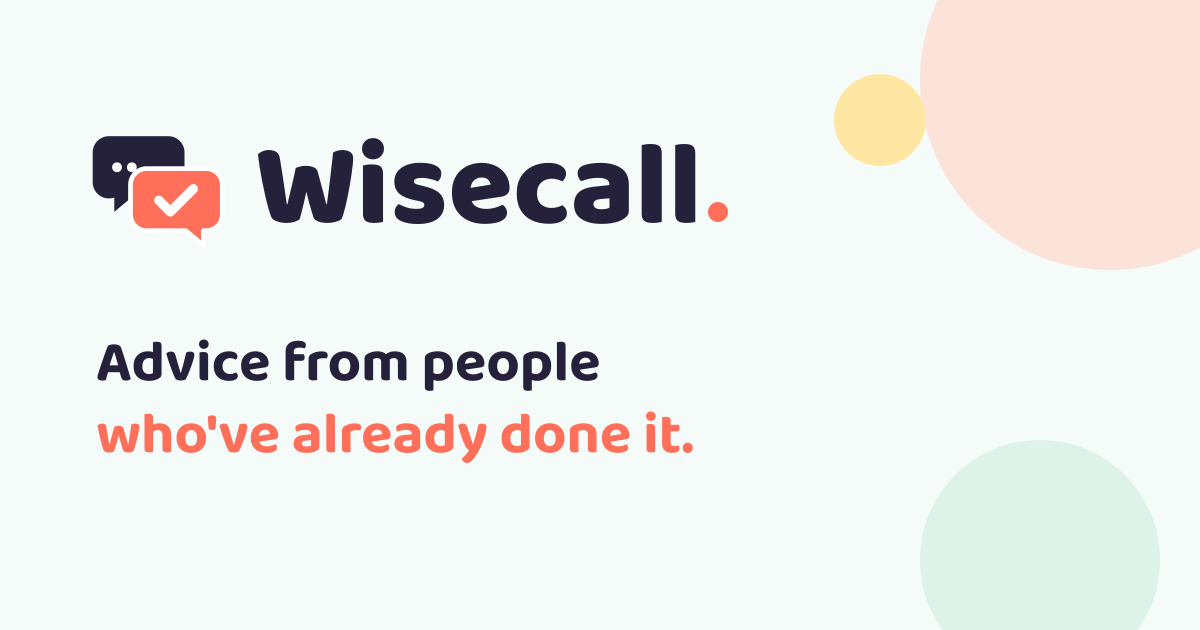
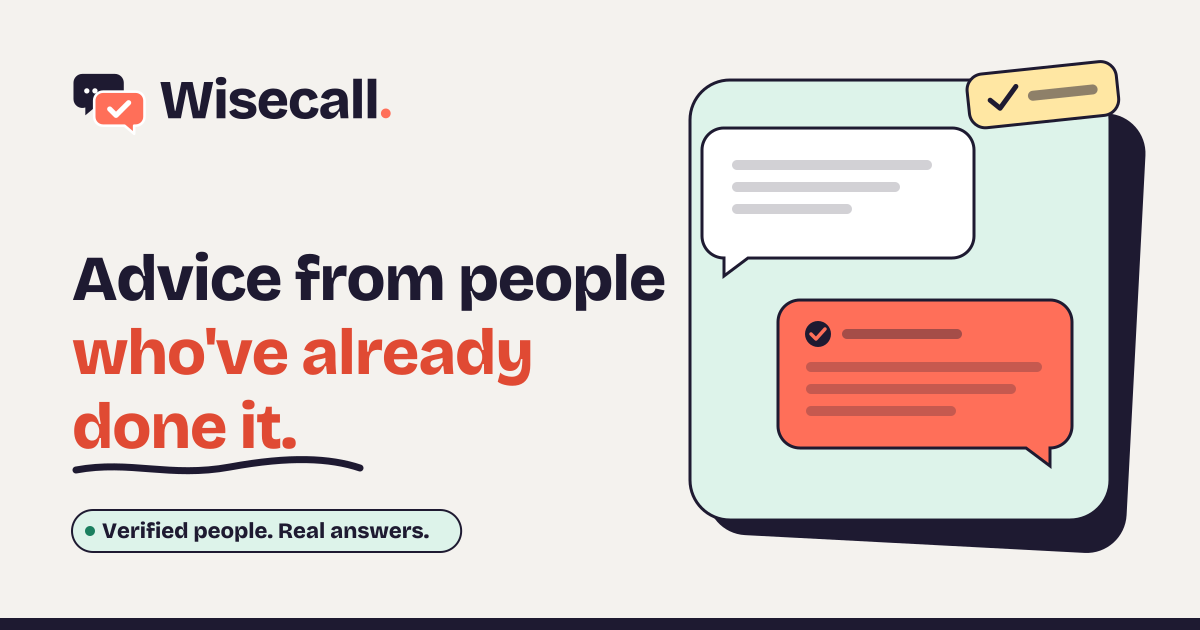
Redesign step 4: the wordmark in the display face, the share images
The logo keeps its speech-bubble mark; the "Wisecall." wordmark is now
Bricolage Grotesque ExtraBold (turned into outlines, so the files need
no font), drawn in the same box as before so every place that shows the
logo keeps its size. The navy #25213B becomes the ink #1E1A31 in every
logo, the favicon SVG and the brand pack (SVG and PNG), and the email
logos (light and dark PNGs) are redrawn from the new SVGs.

The share picture (og-image-1200x630.png, also in the brand pack) uses
the new look: paper, the headline with its coral words and hand-drawn
underline, the "verified" pill, and a mint stage with an abstract
question and answer (no invented text). The live session share card
drawn by the server takes the same colours: paper, an outlined card
with the offset shadow, ink text on the coral label.

diff --git a/server/live/share.js b/server/live/share.js
@@ -8,7 +8,8 @@ const config = require('../config');
 const SIZE = 1080;
 const xml = (s) => String(s === null || s === undefined ? '' : s).replace(/[&<>"']/g, (c) => ({ '&': '&amp;', '<': '&lt;', '>': '&gt;', '"': '&quot;', "'": '&apos;' }[c]));
 // Brand colours (the same as the CSS design tokens; this image is not themed).
-const C = { mint: '#e8f6f0', ink: '#1d1a2e', soft: '#5f5880', accent: '#e8553c', card: '#ffffff', green: '#2e9e7a' };
+// (the site's "Ink & Paper" colours, public/css/tokens.css: text on coral is always ink)
+const C = { paper: '#f4f2ee', ink: '#1e1a31', soft: '#4e4963', coral: '#ff6f59', coralText: '#e04a33', card: '#ffffff' };
 
 // Splits text into at most `lines` lines of about `width` characters (the last one ends with … when cut).
 function wrap(text, width, lines) {
@@ -39,17 +40,18 @@ async function render(sessionId) {
   const titleLines = wrap(s.title, 22, 4);
   const titleSvg = titleLines.map((l, i) => `<text x="110" y="${330 + i * 78}" font-size="64" font-weight="700" fill="${C.ink}">${xml(l)}</text>`).join('');
   const nameY = 330 + titleLines.length * 78 + 70;
-  const svg = `<svg xmlns="http://www.w3.org/2000/svg" width="${SIZE}" height="${SIZE}" viewBox="0 0 ${SIZE} ${SIZE}" font-family="Nunito, 'DejaVu Sans', Sylfaen, Arial, sans-serif">
-    <rect width="${SIZE}" height="${SIZE}" fill="${C.mint}"/>
-    <rect x="60" y="60" width="${SIZE - 120}" height="${SIZE - 120}" rx="48" fill="${C.card}"/>
-    <rect x="110" y="140" width="${Math.max(220, [...label].length * 22 + 60)}" height="64" rx="32" fill="${C.accent}"/>
-    <text x="140" y="183" font-size="30" font-weight="700" fill="#ffffff">${xml(label)}</text>
+  const svg = `<svg xmlns="http://www.w3.org/2000/svg" width="${SIZE}" height="${SIZE}" viewBox="0 0 ${SIZE} ${SIZE}" font-family="'Bricolage Grotesque', 'Noto Sans Georgian', 'DejaVu Sans', Arial, Sylfaen, sans-serif">
+    <rect width="${SIZE}" height="${SIZE}" fill="${C.paper}"/>
+    <rect x="72" y="76" width="${SIZE - 132}" height="${SIZE - 132}" rx="48" fill="${C.ink}"/>
+    <rect x="60" y="60" width="${SIZE - 132}" height="${SIZE - 132}" rx="48" fill="${C.card}" stroke="${C.ink}" stroke-width="5"/>
+    <rect x="110" y="140" width="${Math.max(220, [...label].length * 22 + 60)}" height="64" rx="32" fill="${C.coral}" stroke="${C.ink}" stroke-width="3"/>
+    <text x="140" y="183" font-size="30" font-weight="700" fill="${C.ink}">${xml(label)}</text>
     ${titleSvg}
     <text x="${s.photo ? 270 : 110}" y="${nameY + 10}" font-size="40" font-weight="700" fill="${C.ink}">${xml(s.mentor_name)}</text>
     <text x="${s.photo ? 270 : 110}" y="${nameY + 60}" font-size="30" fill="${C.soft}">${xml(wrap(s.role_title || '', 34, 1)[0] || '')}</text>
     <text x="110" y="890" font-size="38" font-weight="700" fill="${C.ink}">${xml(when)}</text>
-    <text x="110" y="950" font-size="34" fill="${C.green}" font-weight="700">${xml(price)}</text>
-    <text x="${SIZE - 110}" y="950" font-size="32" font-weight="700" fill="${C.accent}" text-anchor="end">${xml(new URL(config.PUBLIC_URL).host)}/live</text>
+    <text x="110" y="950" font-size="40" fill="${C.ink}" font-weight="800">${xml(price)}</text>
+    <text x="${SIZE - 122}" y="950" font-size="32" font-weight="700" fill="${C.coralText}" text-anchor="end">${xml(new URL(config.PUBLIC_URL).host)}/live</text>
   </svg>`;
   const layers = [];
   if (s.photo) {
